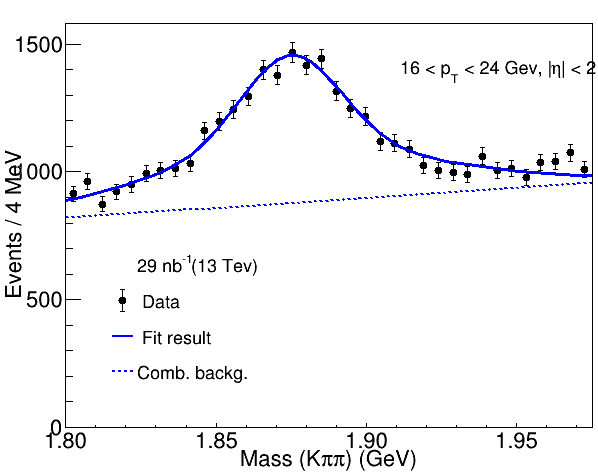
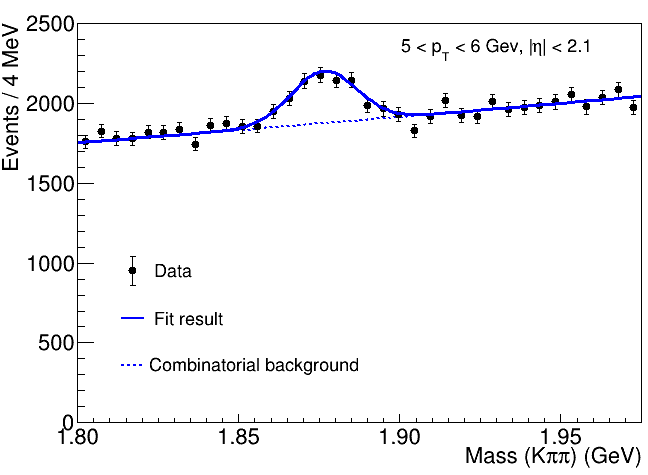
Mejora de la gráfica Double Gaussiana

diff --git a/Codes/DoubleGaussiansMC.C b/Codes/DoubleGaussiansMC.C
@@ -42,15 +42,15 @@ TCanvas* CreateCanvas(TString cname, RooFitResult* result, RooDataSet* data, Roo
     Double_t nbin = ((supM-infM)/0.005)+1;
 
     int H = 500;
-    int W = 600;
+    int W = 650;
 
     // Creando Canvas
     TCanvas *c1 = new TCanvas(cname,cname,500,50,W,H);
     c1->cd() ;  
-    c1->SetLeftMargin(0.11);
+    c1->SetLeftMargin(0.12);
     c1->SetRightMargin(0.01);
     c1->SetTopMargin(0.05);
-    c1->SetBottomMargin(0.1);
+    c1->SetBottomMargin(0.11);
 
     // Creando frame
     RooPlot* Mframe = M.frame(infM,supM,nbin);
@@ -68,15 +68,15 @@ TCanvas* CreateCanvas(TString cname, RooFitResult* result, RooDataSet* data, Roo
     Mframe->SetYTitle("Events / 4 MeV"); 
     Mframe->SetLabelSize(0.05,"XY");
     Mframe->SetTitleSize(0.05,"XY");
-    Mframe->GetYaxis()->CenterTitle();   
-    Mframe->GetXaxis()->CenterTitle();
+    //Mframe->GetYaxis()->CenterTitle();   
+    //Mframe->GetXaxis()->CenterTitle();
     Mframe->GetYaxis()->SetNdivisions(505,1);
-    Mframe->GetXaxis()->SetNdivisions(505,1);
-    Mframe->GetXaxis()->SetTickLength(0.01);    
+    Mframe->GetXaxis()->SetNdivisions(1005,1);
+    Mframe->GetXaxis()->SetTickLength(0.02);    
     Mframe->GetXaxis()->SetDecimals(1); 
-    Mframe->SetTitleOffset(0.85,"X");
-    Mframe->SetTitleOffset(1.1,"Y");
-    // Mframe->SetMinimum(0.5); 
+    Mframe->SetTitleOffset(0.9,"X");
+    Mframe->SetTitleOffset(1.3,"Y");
+    Mframe->SetMaximum(2500); 
     Mframe->Draw();
     
     // Legend 1
@@ -85,14 +85,14 @@ TCanvas* CreateCanvas(TString cname, RooFitResult* result, RooDataSet* data, Roo
     Legend1->SetFillColor(0);
     Legend1->SetBorderSize(0);
     Legend1->SetFillStyle(0);
-    Legend1->AddEntry("", "29 nb^{-1}(13 Tev)","");
+    //Legend1->AddEntry("", "29 nb^{-1}(13 Tev)","");
     Legend1->AddEntry(Mframe->findObject("Data")," Data","ep"); 
     Legend1->AddEntry(Mframe->findObject("fittotal")," Fit result","l");
-    Legend1->AddEntry(Mframe->findObject("bkg"),"Comb. backg.","l");
+    Legend1->AddEntry(Mframe->findObject("bkg"),"Combinatorial background","l");
     Legend1->Draw();
 
-    TLegend *Legend2 = new TLegend(0.65,0.8,0.85,0.9);
-    Legend2->AddEntry("", "16 < p_{T} < 24 Gev, |#eta| < 2.1","");
+    TLegend *Legend2 = new TLegend(0.6,0.84,0.8,0.95);
+    Legend2->AddEntry("", "5 < p_{T} < 6 Gev, |#eta| < 2.1","");
     Legend2->SetBorderSize(0);
     Legend2->SetTextSize(0.04);
     Legend2->SetFillStyle(0);
@@ -124,11 +124,11 @@ int DoubleGaussiansMC(){
     RooRealVar mean("mean"," Mass mean",1.875,1.85,1.9,"GeV");
 
     // Gausiana 1
-    RooRealVar width("width"," Mass width",0.02,0.001,0.025,"GeV"); // Sigma1
+    RooRealVar width("width"," Mass width",0.008,0.0001,0.018,"GeV"); // Sigma1
     RooGaussian Sig("Sig"," Signal PDF",M,mean,width);
 
     // Gausiana 2
-    RooRealVar width2("width2"," Mass width2 ",0.025,0.001,0.05,"GeV"); // Sigma2
+    RooRealVar width2("width2"," Mass width2 ",0.08,0.0001,0.1,"GeV"); // Sigma2
     RooGaussian Sig2("Sig2"," Signal PDF B",M,mean,width2);
 
     // -Parámetros Background-
@@ -138,7 +138,7 @@ int DoubleGaussiansMC(){
 
     // Cantidad de datos por cada componente
     RooRealVar Ns("Ns","Ns",0.,500);
-    RooRealVar Nb("Nb","Nb",1500.,2000);   
+    RooRealVar Nb("Nb","Nb",1500.,20000);   
     RooRealVar fs("fs","fs",0.8,0.,1.);
 
     // Suma de las dos gausianas
@@ -148,7 +148,7 @@ int DoubleGaussiansMC(){
     RooAddPdf MassModel("MassModel","MassModel",RooArgList(Sumgaus,Bkg),RooArgList(Ns,Nb));
 
     // Generación
-    RooDataSet* Data_M = MassModel.generate(M,40000);
+    RooDataSet* Data_M = MassModel.generate(M,70000);
 
     // ---- Fitting ----
     RooFitResult* ResultFit = MassModel.fitTo(*Data_M,Extended(),Minos(kFALSE),Save(kTRUE));
